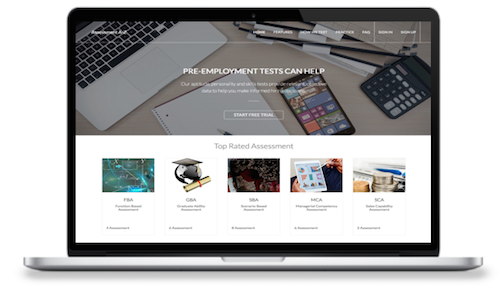
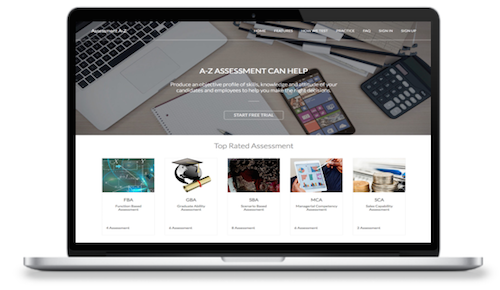
updated homepage.

diff --git a/index.html b/index.html
@@ -55,18 +55,17 @@
               <li><a href="#about">FEATURES</a></li>
               <li><a href="#how">HOW WE TEST</a></li>
               <li><a href="#practice">PRACTICE</a></li>
-              <li class="vert-divider"><a href="#faq">FAQ</a></li>
+              <li><a href="#faq">FAQ</a></li>
               <li><a href="sign-in.html">SIGN IN</a></li>
-              <li class="vert-divider"><a href="#signup">SIGN UP</a></li>
+              <li><a href="#signup">SIGN UP</a></li>
             </ul>
           </div><!--/.nav-collapse -->
         </div>
       </nav>
       <div class="row">
         <div class="col-md-offset-3 col-md-6 text-center" style="padding-top:10em;color:#fff;">
-          <h2 class="h2-banner">PRE-EMPLOYMENT TESTS CAN HELP</h2>
-          <h4 class="h4-banner">Our aptitude, personality and skills tests provide relevant, objective</h4>
-          <h4 class="h4-banner">data to help you make informed hiring decisions.</h4>
+          <h2 class="h2-banner">A-Z ASSESSMENT CAN HELP</h2>
+          <h4 class="h4-banner">Produce an objective profile of skills, knowledge and attitude of your candidates and employees to help you make the right decisions.</h4>
           <hr class="hr-banner">
           <button class="btn btn-custom">START FREE TRIAL</button>
         </div>
@@ -255,7 +254,7 @@
       <div class="assessment-wrapper">
         <a href="#link">
           <div class="assessment-child">
-          <div class="img-response"style="background-image:url('assets/img/assessment-development.jpg');"></div>
+          <div class="img-response"style="background-image:url('assets/img/dev-assess-group.jpg'); background-position:top center;"></div>
           <div class="assess-inner-content">
             <h4 class="text-center assess-content-header">ADS</h4>
             <h5 class="text-center assess-content-header">Assessment & Development Centre</h5>
@@ -340,7 +339,7 @@
             </ul>
           </div>
           <div class="footer-content">
-            <h4>ASSESSMENT A-Z</h4>
+            <h4>WORKFORCE SELECT</h4>
             <ul class="nav-footer">
               <li><a href="">Home</a></li>
               <li><a href="">How We Test</a></li>
@@ -349,7 +348,7 @@
             </ul>
           </div>
           <div class="footer-content">
-            <h4>ASSESSMENT A-Z GROUP</h4>
+            <h4>WORKFORCE GROUP</h4>
             <ul class="nav-footer">
               <li><a href="">Winstitute</a></li>
               <li><a href="">Stratorg</a></li>

diff --git a/assets/css/bootstrap.css b/assets/css/bootstrap.css
@@ -4150,7 +4150,7 @@ select[multiple].input-group-sm > .input-group-btn > .btn {
 }
 .navbar {
   position: relative;
-  min-height: 90px;
+  min-height: 80px;
   margin-bottom: 20px;
   border: 1px solid transparent;
 }
@@ -4256,10 +4256,10 @@ select[multiple].input-group-sm > .input-group-btn > .btn {
 }
 .navbar-brand {
   float: left;
-  padding: 35px 15px;
+  padding: 30px 15px;
   font-size: 18px;
   line-height: 20px;
-  height: 90px;
+  height: 80px;
 }
 .navbar-brand:hover,
 .navbar-brand:focus {
@@ -4279,8 +4279,8 @@ select[multiple].input-group-sm > .input-group-btn > .btn {
   float: right;
   margin-right: 15px;
   padding: 9px 10px;
-  margin-top: 28px;
-  margin-bottom: 28px;
+  margin-top: 23px;
+  margin-bottom: 23px;
   background-color: transparent;
   background-image: none;
   border: 1px solid transparent;
@@ -4304,7 +4304,7 @@ select[multiple].input-group-sm > .input-group-btn > .btn {
   }
 }
 .navbar-nav {
-  margin: 17.5px -15px;
+  margin: 15px -15px;
 }
 .navbar-nav > li > a {
   padding-top: 10px;
@@ -4342,8 +4342,8 @@ select[multiple].input-group-sm > .input-group-btn > .btn {
     float: left;
   }
   .navbar-nav > li > a {
-    padding-top: 35px;
-    padding-bottom: 35px;
+    padding-top: 30px;
+    padding-bottom: 30px;
   }
 }
 .navbar-form {
@@ -4354,8 +4354,8 @@ select[multiple].input-group-sm > .input-group-btn > .btn {
   border-bottom: 1px solid transparent;
   -webkit-box-shadow: inset 0 1px 0 rgba(255, 255, 255, 0.1), 0 1px 0 rgba(255, 255, 255, 0.1);
   box-shadow: inset 0 1px 0 rgba(255, 255, 255, 0.1), 0 1px 0 rgba(255, 255, 255, 0.1);
-  margin-top: 28px;
-  margin-bottom: 28px;
+  margin-top: 23px;
+  margin-bottom: 23px;
 }
 @media (min-width: 768px) {
   .navbar-form .form-group {
@@ -4440,20 +4440,20 @@ select[multiple].input-group-sm > .input-group-btn > .btn {
   border-bottom-left-radius: 0;
 }
 .navbar-btn {
-  margin-top: 28px;
-  margin-bottom: 28px;
+  margin-top: 23px;
+  margin-bottom: 23px;
 }
 .navbar-btn.btn-sm {
-  margin-top: 30px;
-  margin-bottom: 30px;
+  margin-top: 25px;
+  margin-bottom: 25px;
 }
 .navbar-btn.btn-xs {
-  margin-top: 34px;
-  margin-bottom: 34px;
+  margin-top: 29px;
+  margin-bottom: 29px;
 }
 .navbar-text {
-  margin-top: 35px;
-  margin-bottom: 35px;
+  margin-top: 30px;
+  margin-bottom: 30px;
 }
 @media (min-width: 768px) {
   .navbar-text {

diff --git a/assets/css/custom.css b/assets/css/custom.css
@@ -45,10 +45,9 @@ body > .container {
   .navbar-nav>li>a{cursor: pointer;}
   .btn-custom{background-color: transparent; border:1px solid #eee; color: #eee;padding-left:2em;padding-right: 2em; font-size: 17px;}
   .btn-custom:hover{color: #777; background-color: #eee;}
-  .h4-banner{font-weight:100; font-size: 19px;}
+  .h4-banner{font-weight:300; font-size: 21px; line-height: 26px;}
   .h2-banner{margin-bottom:1em; margin-top: 2em;}
   .hr-banner{width:40px; border-color:#eee;margin-top:2.5em;margin-bottom: 3em;}
-  .vert-divider{border-right:1px solid #eee;}
   div.container-assessment{padding-left:3%;padding-top:0;}
   .assessment-header{color:#808080;font-weight:300;margin-bottom: 1em; margin-top: 1em;}
   div.assessment-header-container{padding-top:0;}
@@ -142,6 +141,7 @@ body.body-sign-in{
       }
   body{margin-bottom: 500px;}
   h2.h2-banner{margin-bottom:0; margin-top: 0; font-size: 26px;}
+  h4.h4-banner{font-size: 17px;}
   .hr-banner{margin-top:.5em;margin-bottom: .5em;}
     nav.navbar-inverse{background-color: rgba(41,41,41, .9); border-bottom-color: transparent;}
     footer.footer {
